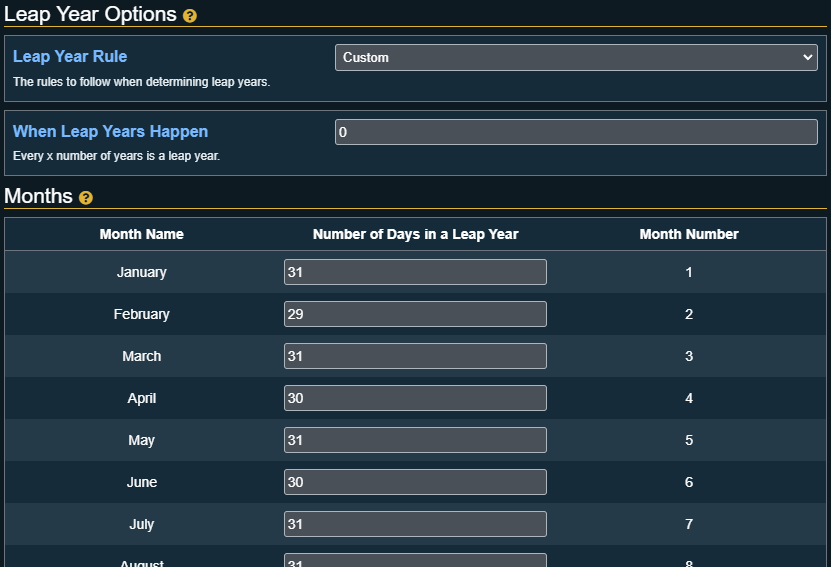
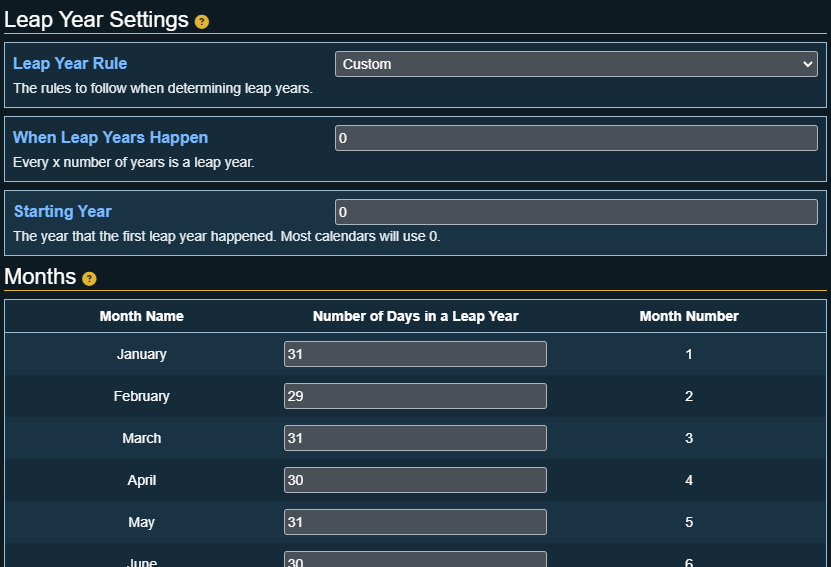
DOCS: Added documentation for the new leap year starting year option.

diff --git a/CHANGELOG.md b/CHANGELOG.md
@@ -1,9 +1,15 @@
 # Change Log
 
-## 2.3.22 - Bug Fixes
+## 2.4.0 - Leap Year Starting Year and Bug Fixes
 
 ![](https://img.shields.io/badge/release%20date-September%2012%2C%202023-blue)
-![GitHub release](https://img.shields.io/github/downloads-pre/vigoren/foundryvtt-simple-calendar/v2.3.22/module.zip)
+![GitHub release](https://img.shields.io/github/downloads-pre/vigoren/foundryvtt-simple-calendar/v2.4.0/module.zip)
+
+### Leap Year Starting Year
+
+A new setting has been added to the leap year settings that allows you to set the year that leap years start on. 
+
+An example of this would a calendar that has a leap year every 4 years but the first leap year should be on year 1 and the next on year 5 etc. Setting this option to 1 would allow for this scenario.
 
 ### Bug Fixes
 
@@ -19,6 +25,7 @@ Thank you to the follow people for making updates to Simple Calendars translatio
 
 ### Documentation Changes
 
+- Added documentation for the new [Leap Year Starting Year](https://simplecalendar.info/docs/calendar-configuration/leap-year-settings#leap-year-starting-year) setting.
 - Updated the FAQ section [Why Is Simple Calendar not in Sync with X module/system?](https://simplecalendar.info/docs/faq#why-is-simple-calendar-not-in-sync-with-x-modulesystem) to better word any issues with specific systems or modules.
 - Added a new FAQ [Simple Calendar Says "There is an active combat/combats running" but there are no combats running](https://simplecalendar.info/docs/faq#simple-calendar-says-there-is-an-active-combatcombats-running-but-there-are-no-combats-running).
 

diff --git a/simple-calendar-docs/docs/calendar-configuration/leap-year-settings.md b/simple-calendar-docs/docs/calendar-configuration/leap-year-settings.md
@@ -24,6 +24,12 @@ This setting only appears if the [Leap Year Rule](#leap-year-rule) is set to **C
 
 The number of years when a leap year occurs. Example a value of 5 would mean every 5th year is a leap year.
 
+## Starting Year
+
+The year that the first leap year happened.
+
+An example of this would a calendar that has a leap year every 4 years but the first leap year should be on year 1 and the next on year 5 etc. Setting this option to 1 would allow for this scenario.
+
 ## Months
 
 :::info

diff --git a/simple-calendar-docs/docs/developing-with-sc/api/interfaces/SimpleCalendar.LeapYearData.md b/simple-calendar-docs/docs/developing-with-sc/api/interfaces/SimpleCalendar.LeapYearData.md
@@ -104,3 +104,11 @@ If to show the advanced options, this is not saved
 #### Inherited from
 
 IDataItemBase.showAdvanced
+
+___
+
+### startingYear
+
+• **startingYear**: `number`
+
+The year to start calculating leap years from.
